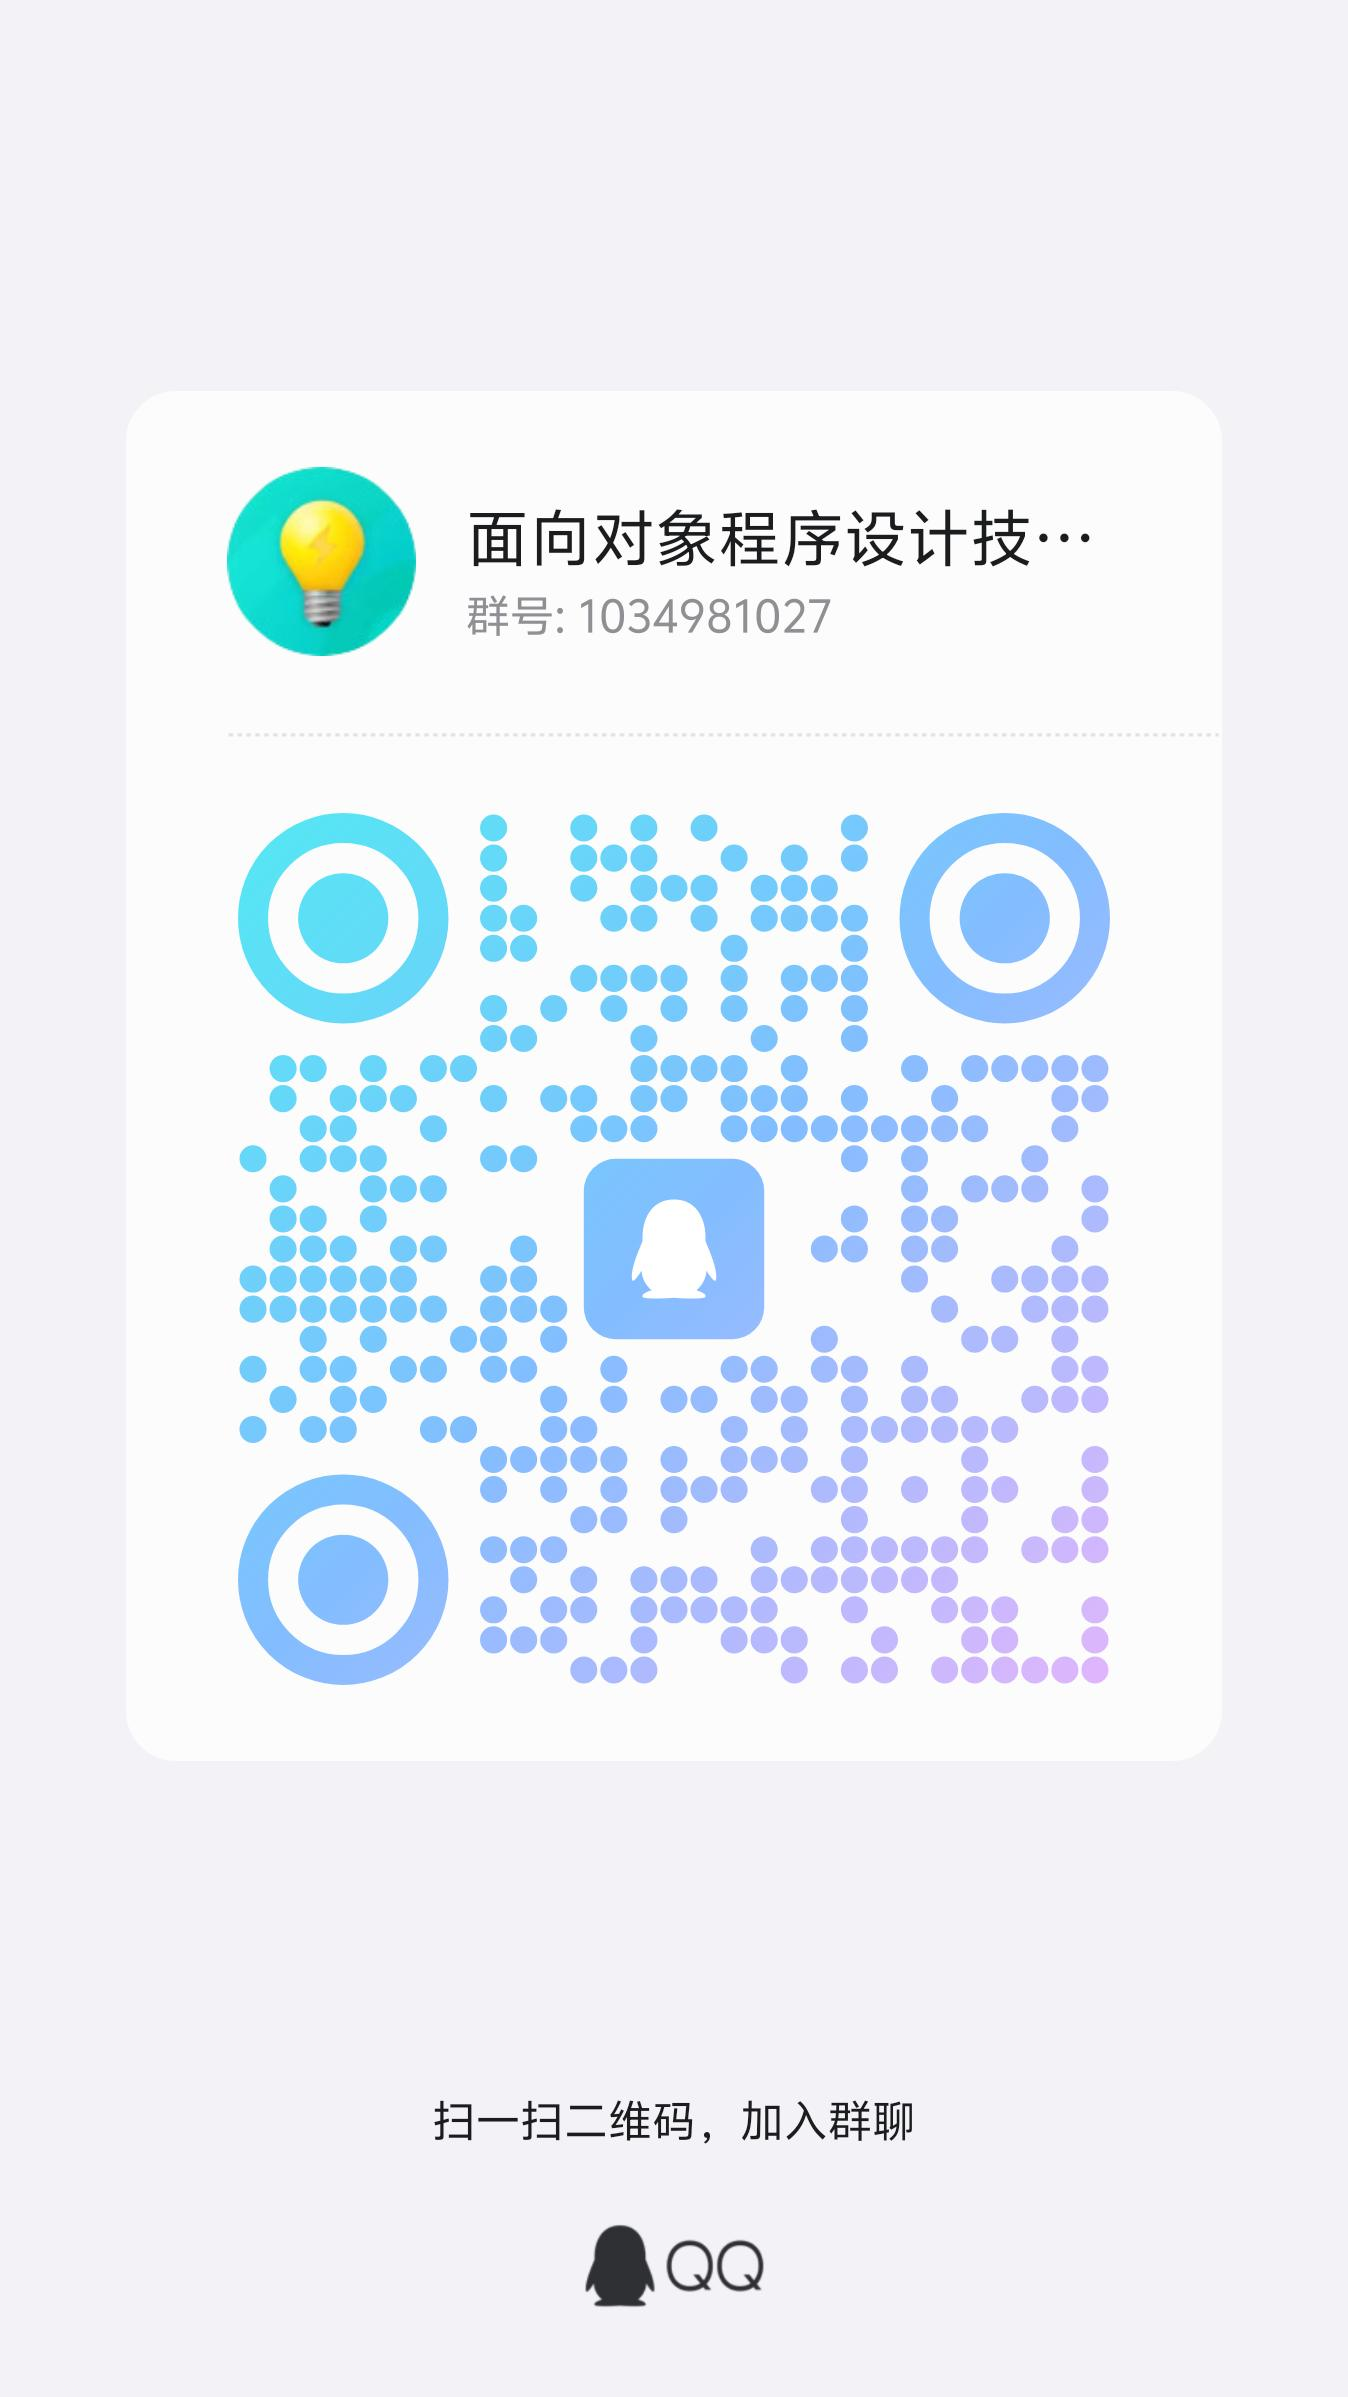
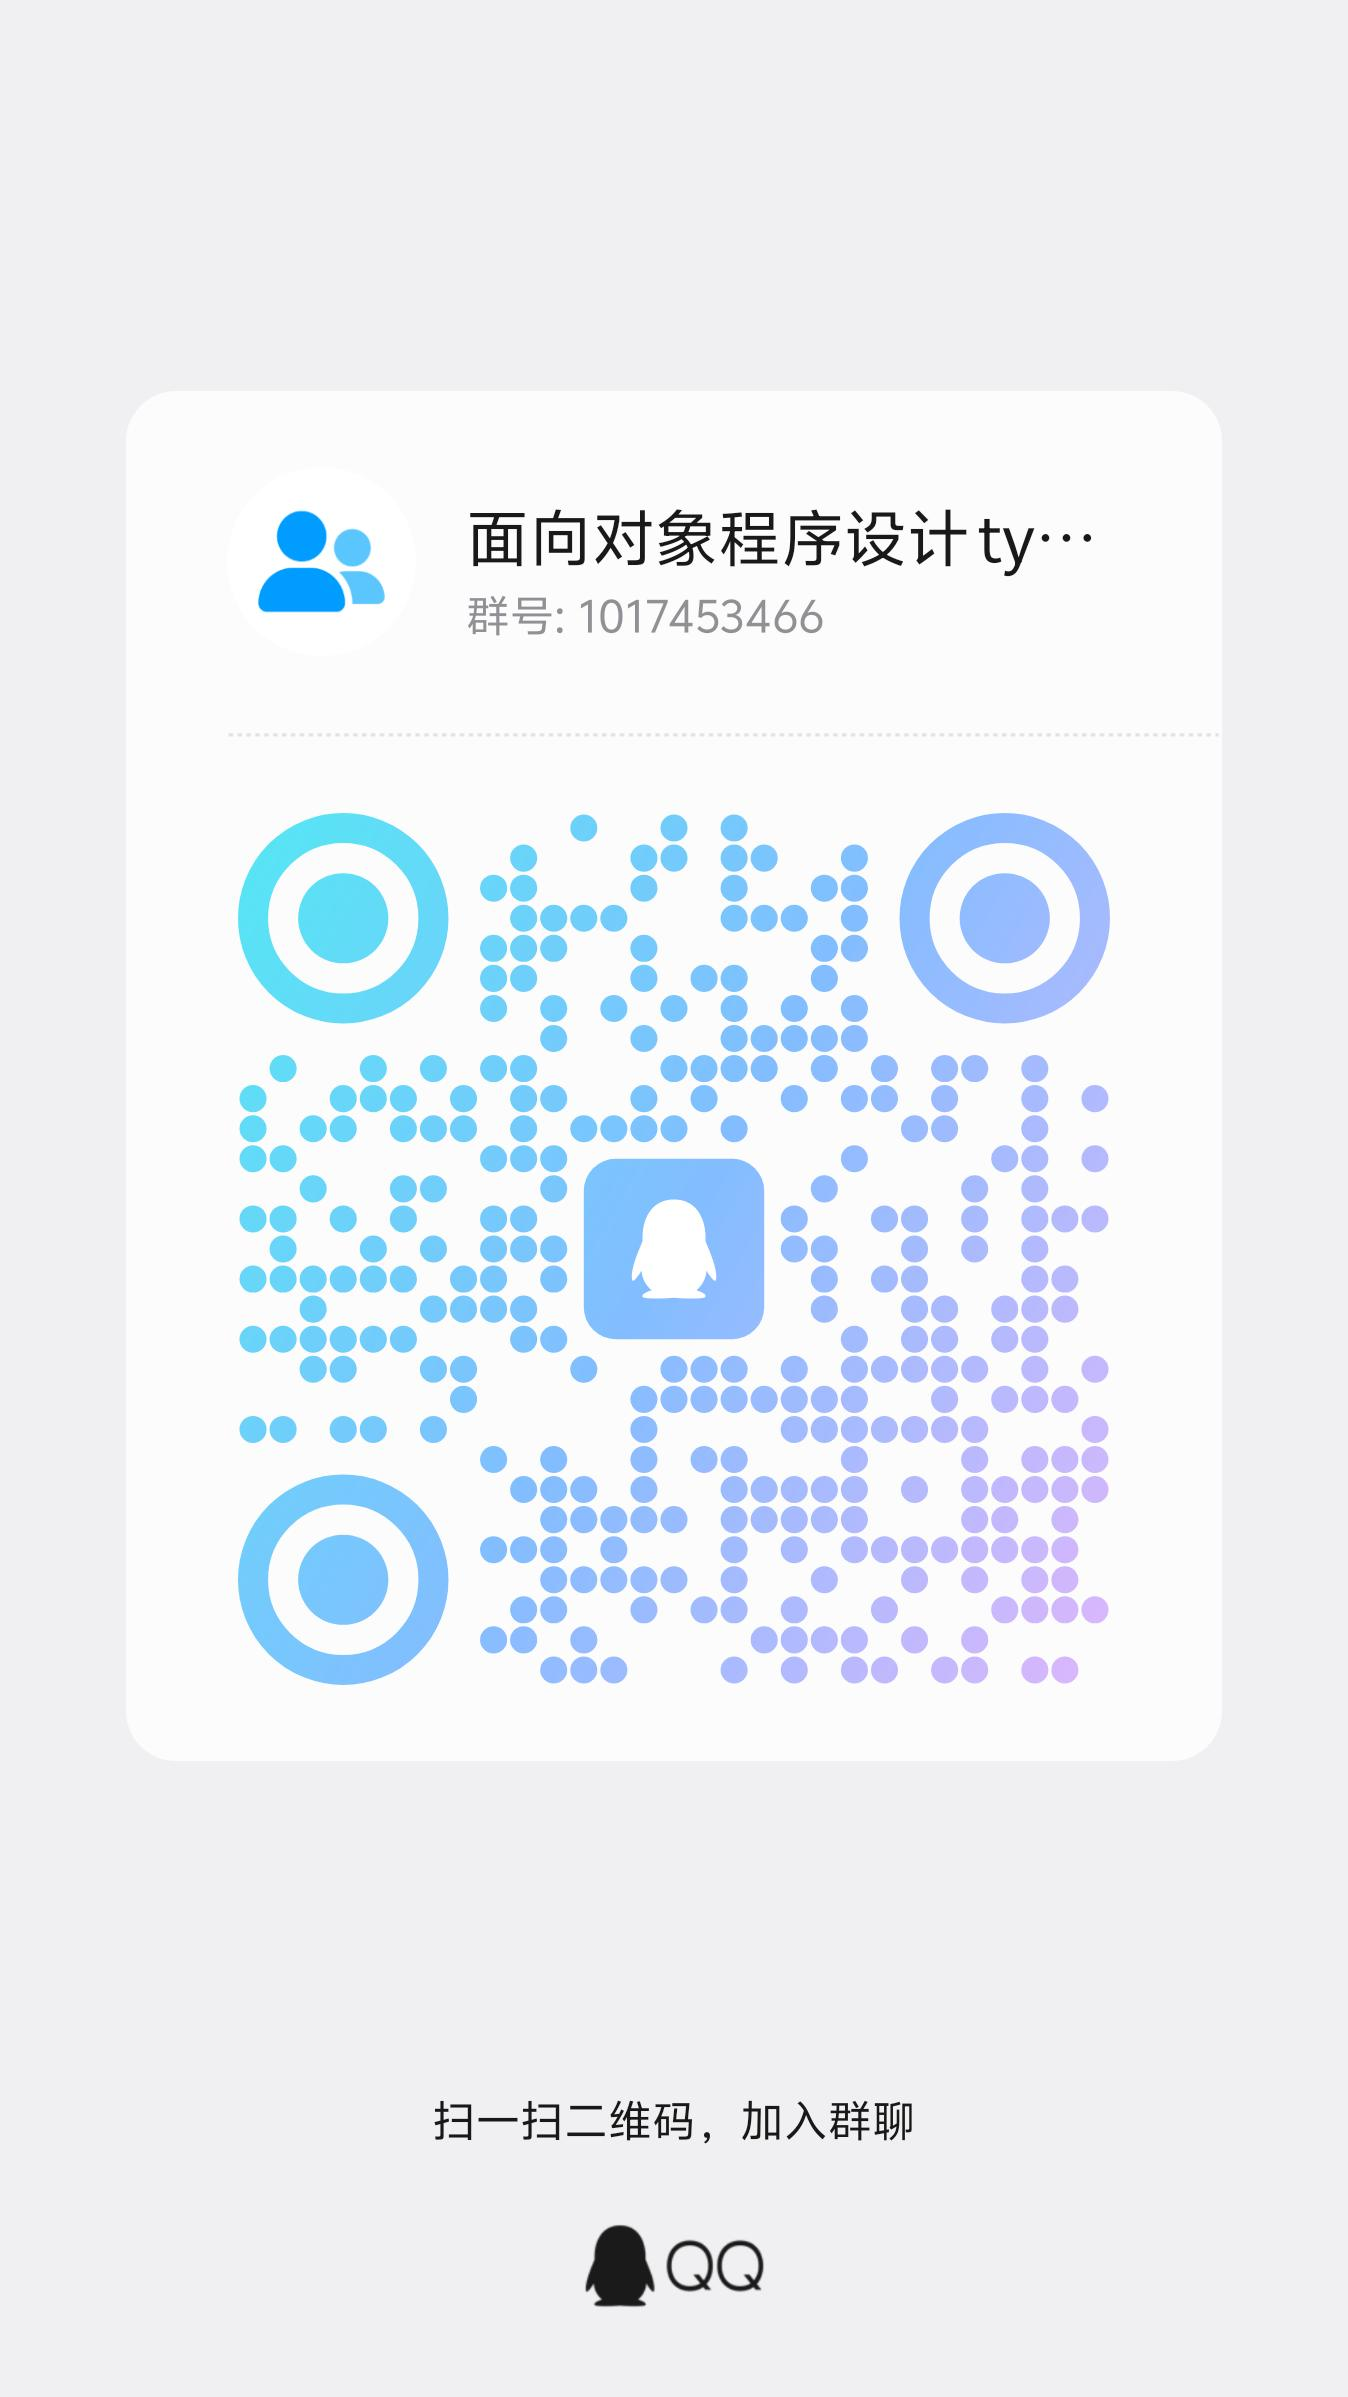
update qq group

diff --git a/slides/slides/lecture01.html b/slides/slides/lecture01.html
@@ -41,7 +41,7 @@
 				<h3>课程资料</h3>
 				<p><a href="https://github.com/pdcxs/cpp-class-material">https://github.com/pdcxs/cpp-class-material</a>
 					</br>
-					QQ群：1034981027</p>
+					QQ群：1017453466</p>
 					<img src="./imgs/lec01/qq.jpg" alt="QQ群" style="height: 400px;">
 
 			</section>
